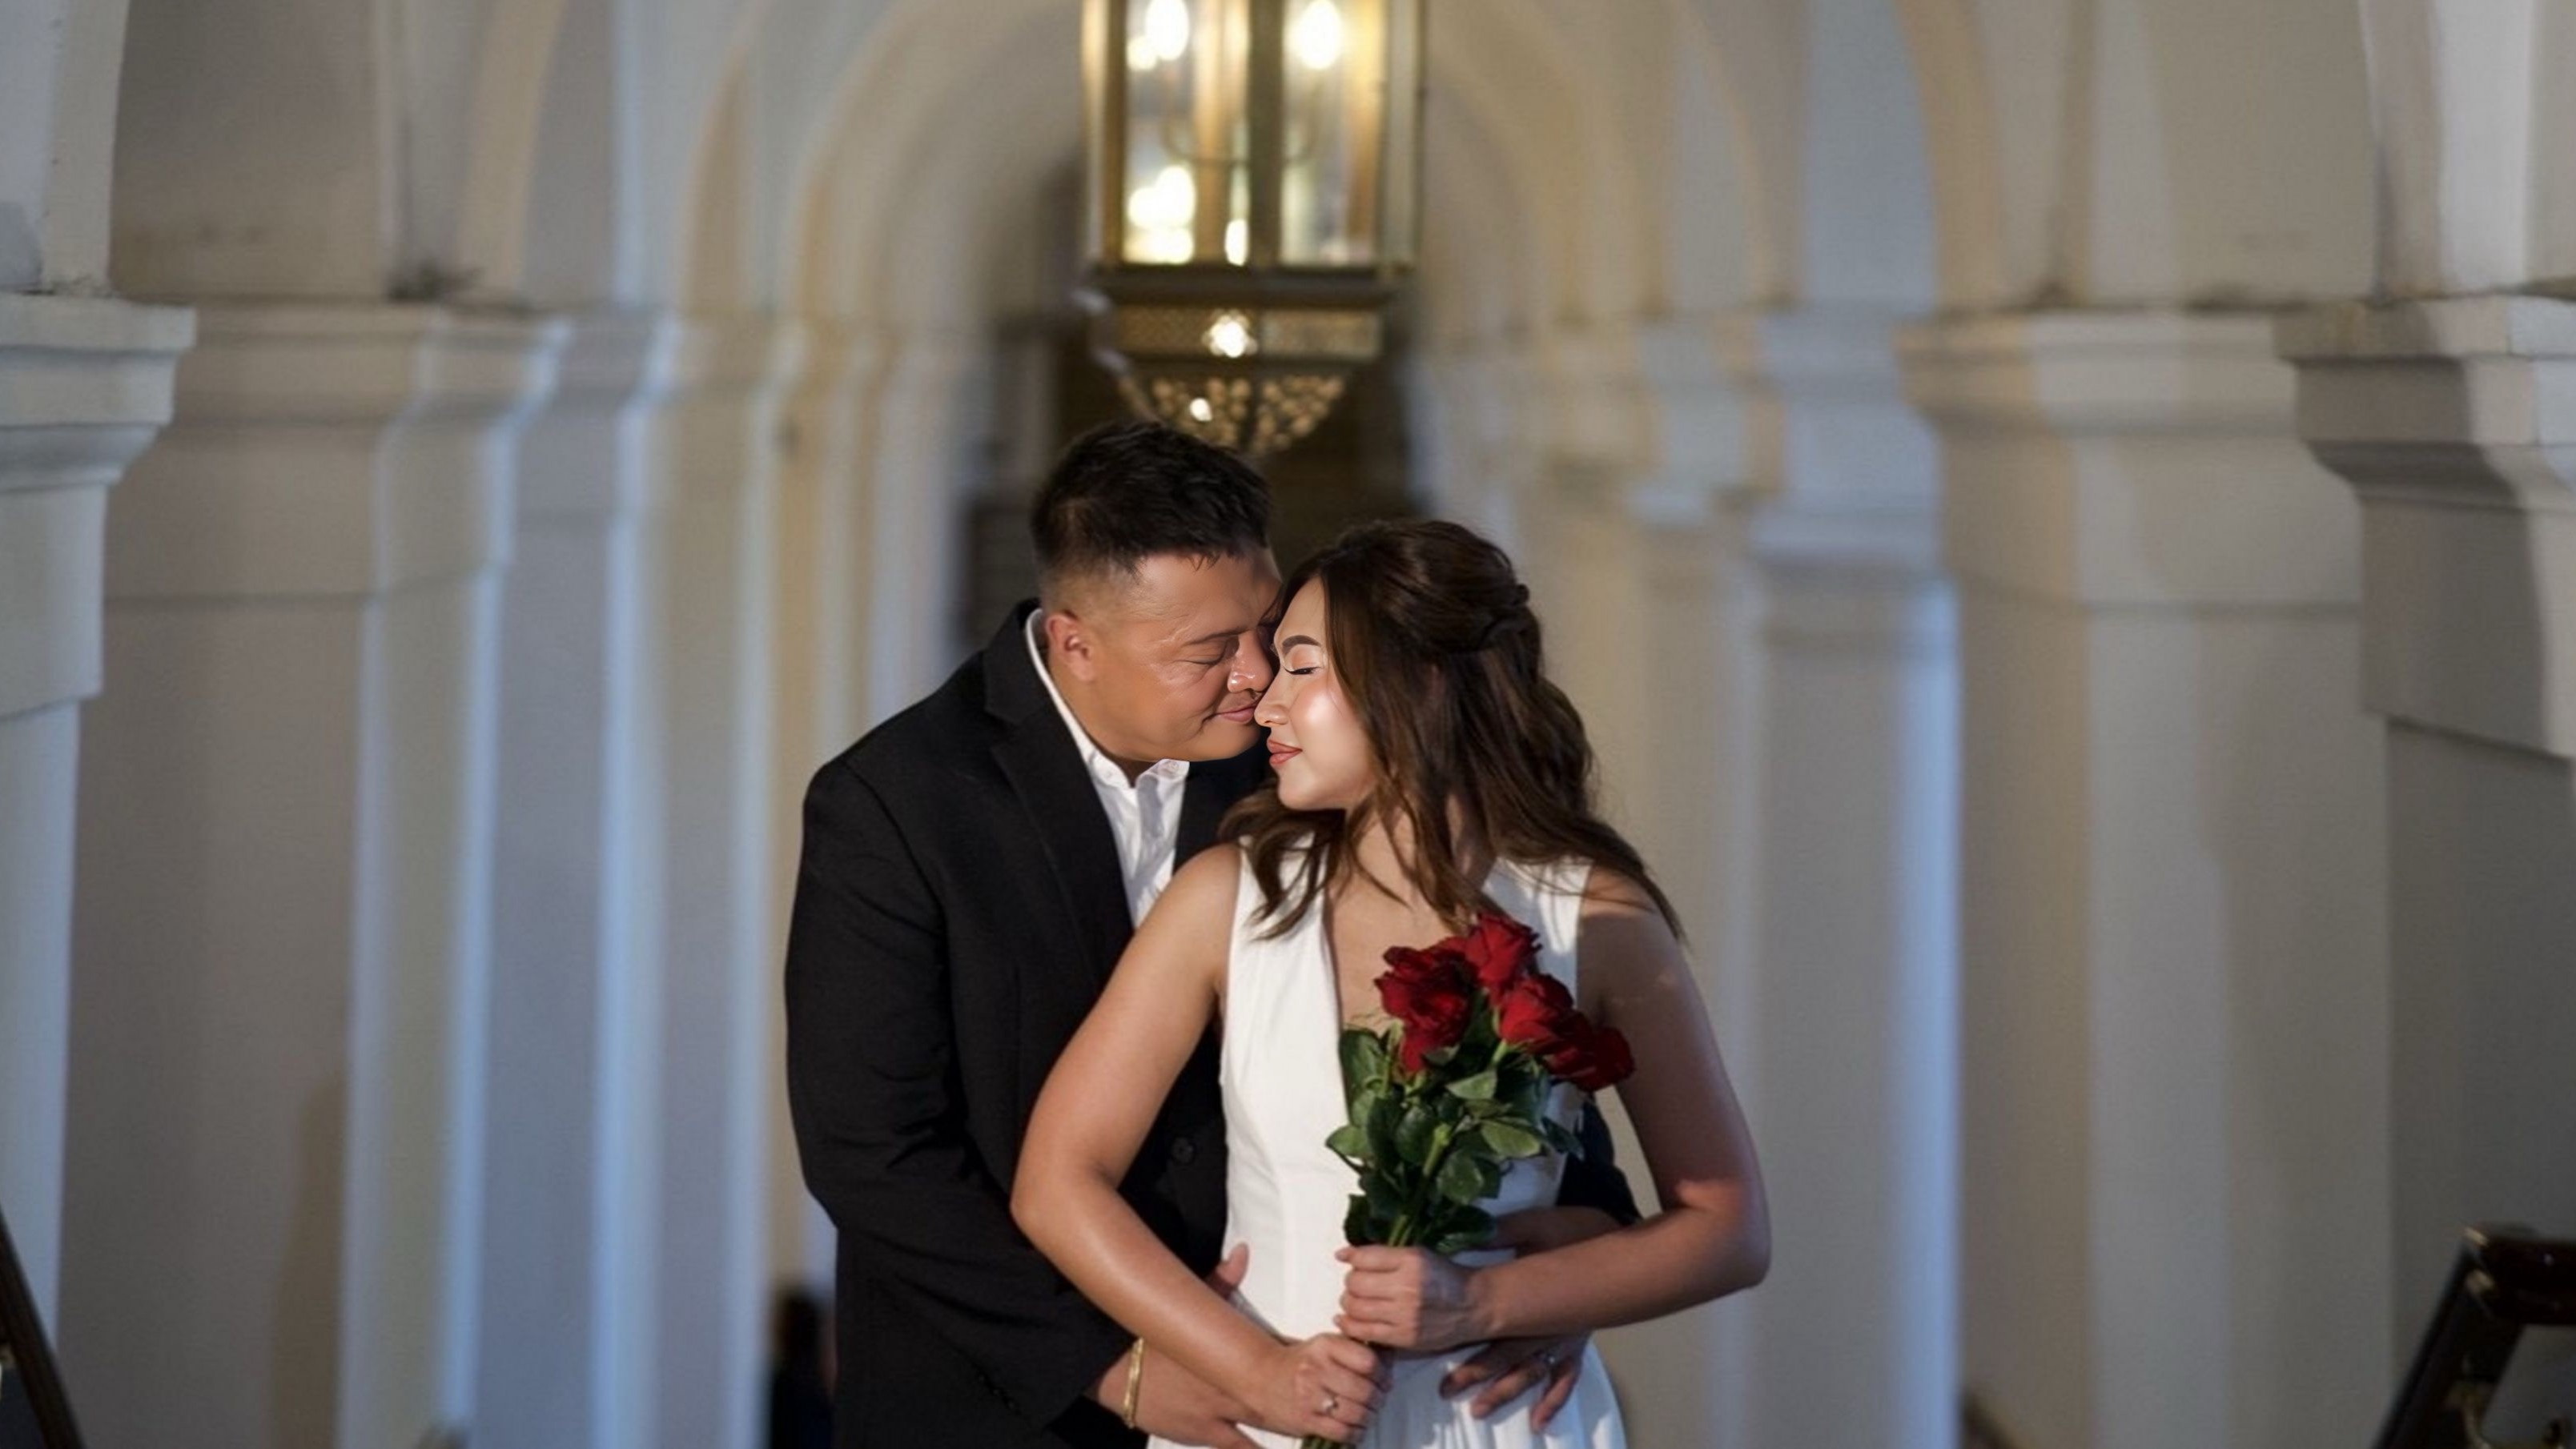
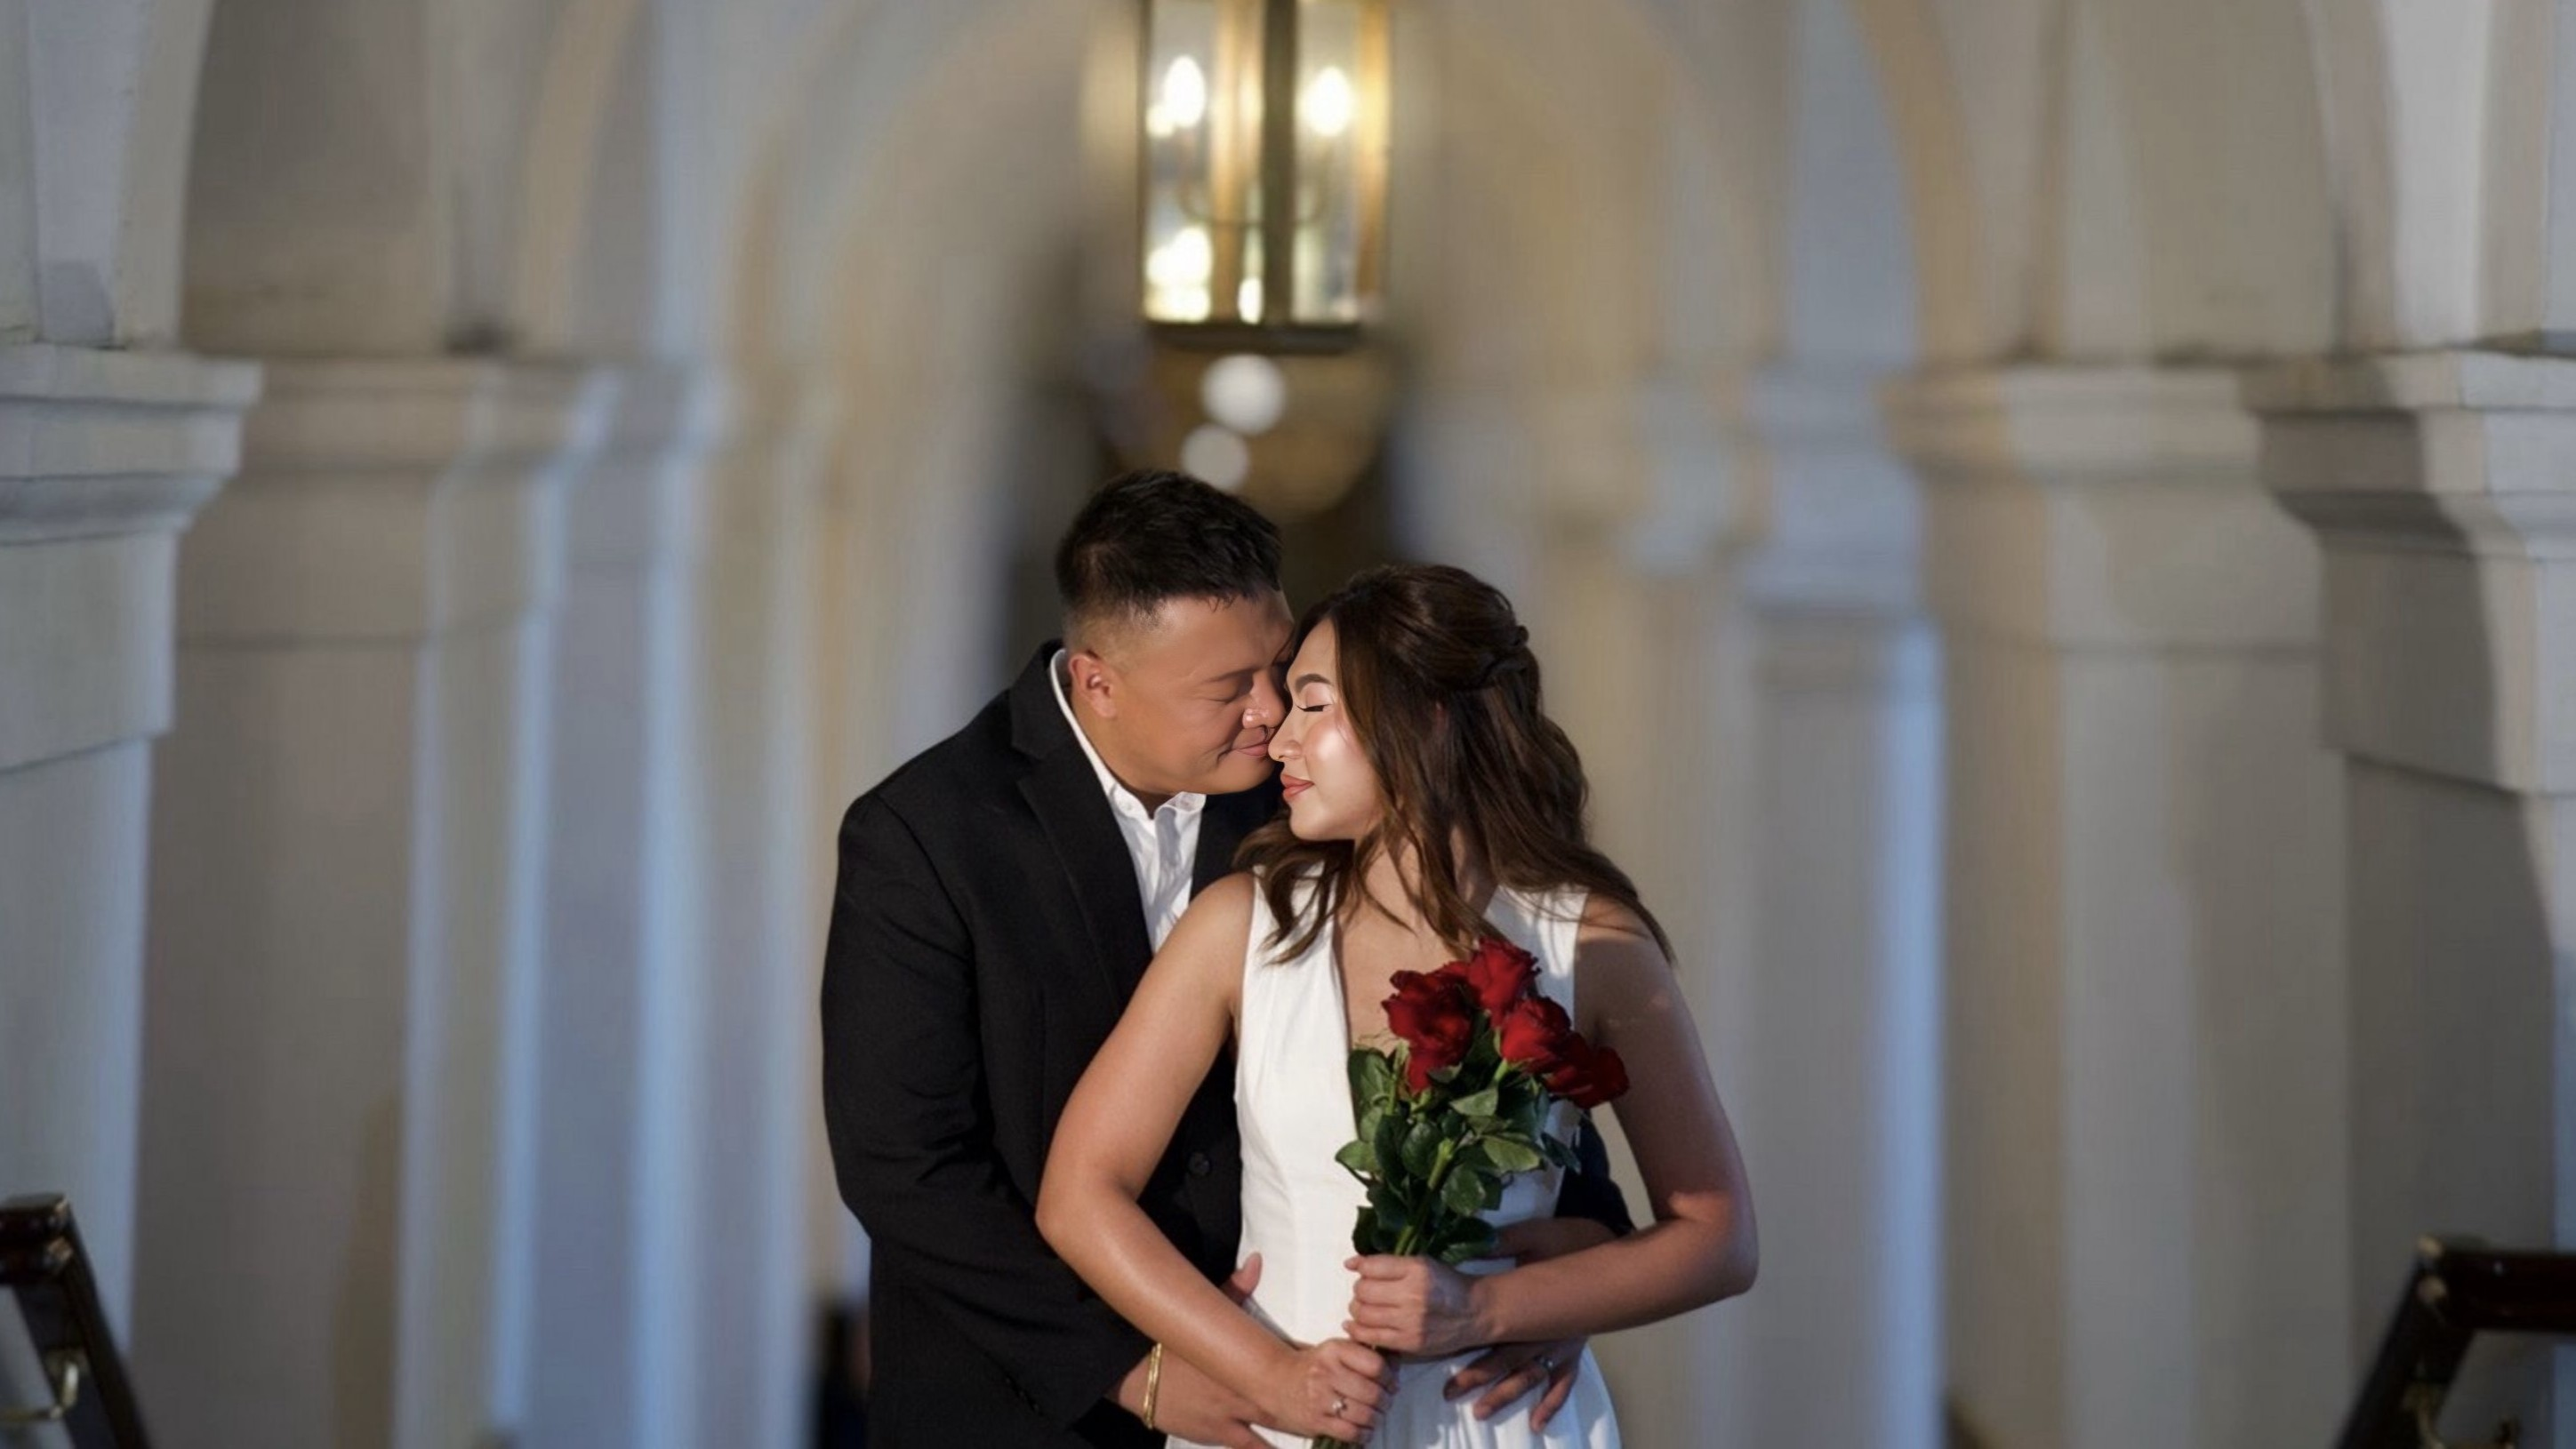
fix

diff --git a/index.html b/index.html
@@ -4,7 +4,7 @@
 <head>
     <meta charset="UTF-8">
     <meta name="viewport" content="width=device-width, initial-scale=1.0">
-    <link rel="stylesheet" href="style.css?v=2.4">
+    <link rel="stylesheet" href="style.css?v=2.5">
     <!-- Google Fonts -->
     <link
         href="https://fonts.googleapis.com/css2?family=Great+Vibes&family=Montserrat:wght@300;400;600&family=Playfair+Display:ital,wght@0,400;0,700;1,400&display=swap"
@@ -322,11 +322,11 @@
 
                         <!-- CEREMONY SECTION -->
                         <div class="v5-event-block">
-                            <h3 class="v7-script-title">Ceremony</h3>
+                            <h3 class="section-title">Ceremony</h3>
                             <p class="v5-time">02:30 IN THE AFTERNOON</p>
                             <p class="v5-venue">San Agustin Church</p>
                             <p class="v5-address">Intramuros, Manila</p>
-                            <a href="https://maps.app.goo.gl/..." class="v5-map-link">VIEW ON MAPS</a>
+                            <a href="https://www.google.com/maps/place/San+Agustin+Church/@14.5891514,120.9726091,17z/data=!3m1!4b1!4m6!3m5!1s0x3397ca3d23445363:0x6c2d1781ec26636a!8m2!3d14.5891514!4d120.975184!16zL20vMDRwX2pu?entry=ttu&g_ep=EgoyMDI2MDUyMC4wIKXMDSoASAFQAw%3D%3D" class="v5-map-link">VIEW ON MAPS</a>
                         </div>
 
                         <!-- DIVIDER: Building Illustration -->
@@ -342,11 +342,11 @@
 
                         <!-- RECEPTION SECTION -->
                         <div class="v5-event-block">
-                            <h3 class="v7-script-title">Reception</h3>
+                            <h3 class="section-title">Reception</h3>
                             <p class="v5-time">06:00 IN THE EVENING</p>
                             <p class="v5-venue">The Manila Hotel</p>
                             <p class="v5-address">One Rizal Park, Manila</p>
-                            <a href="https://maps.app.goo.gl/..." class="v5-map-link">VIEW ON MAPS</a>
+                            <a href="https://www.google.com/maps/place/The+Manila+Hotel/@14.5832729,120.9713646,17z/data=!3m1!4b1!4m9!3m8!1s0x3397ca1cd1819401:0x1fcf5e00dfe8decc!5m2!4m1!1i2!8m2!3d14.5832729!4d120.9739395!16s%2Fm%2F02z1sjl?entry=ttu&g_ep=EgoyMDI2MDUyMC4wIKXMDSoASAFQAw%3D%3D" class="v5-map-link">VIEW ON MAPS</a>
                         </div>
 
                     </div>
@@ -774,9 +774,9 @@
                 </div>
 
                 <!-- Photo 6 -->
-                <div class="v8-polaroid v8-p6">
+                <!-- <div class="v8-polaroid v8-p6">
                     <div class="v8-img-frame"><img src="6.JPG" alt="Moment"></div>
-                </div>
+                </div> -->
 
                 <!-- Photo 7 -->
                 <div class="v8-polaroid v8-p7">
@@ -786,7 +786,7 @@
                 <!-- Photo 8 -->
                 <div class="v8-polaroid v8-p8">
                     <div class="v8-tape v8-tape-angle"></div>
-                    <div class="v8-img-frame"><img src="8.JPG" alt="Moment"></div>
+                    <div class="v8-img-frame"><img src="6.JPG" alt="Moment"></div>
                 </div>
 
                 <!-- Photo 9 (Hero) -->